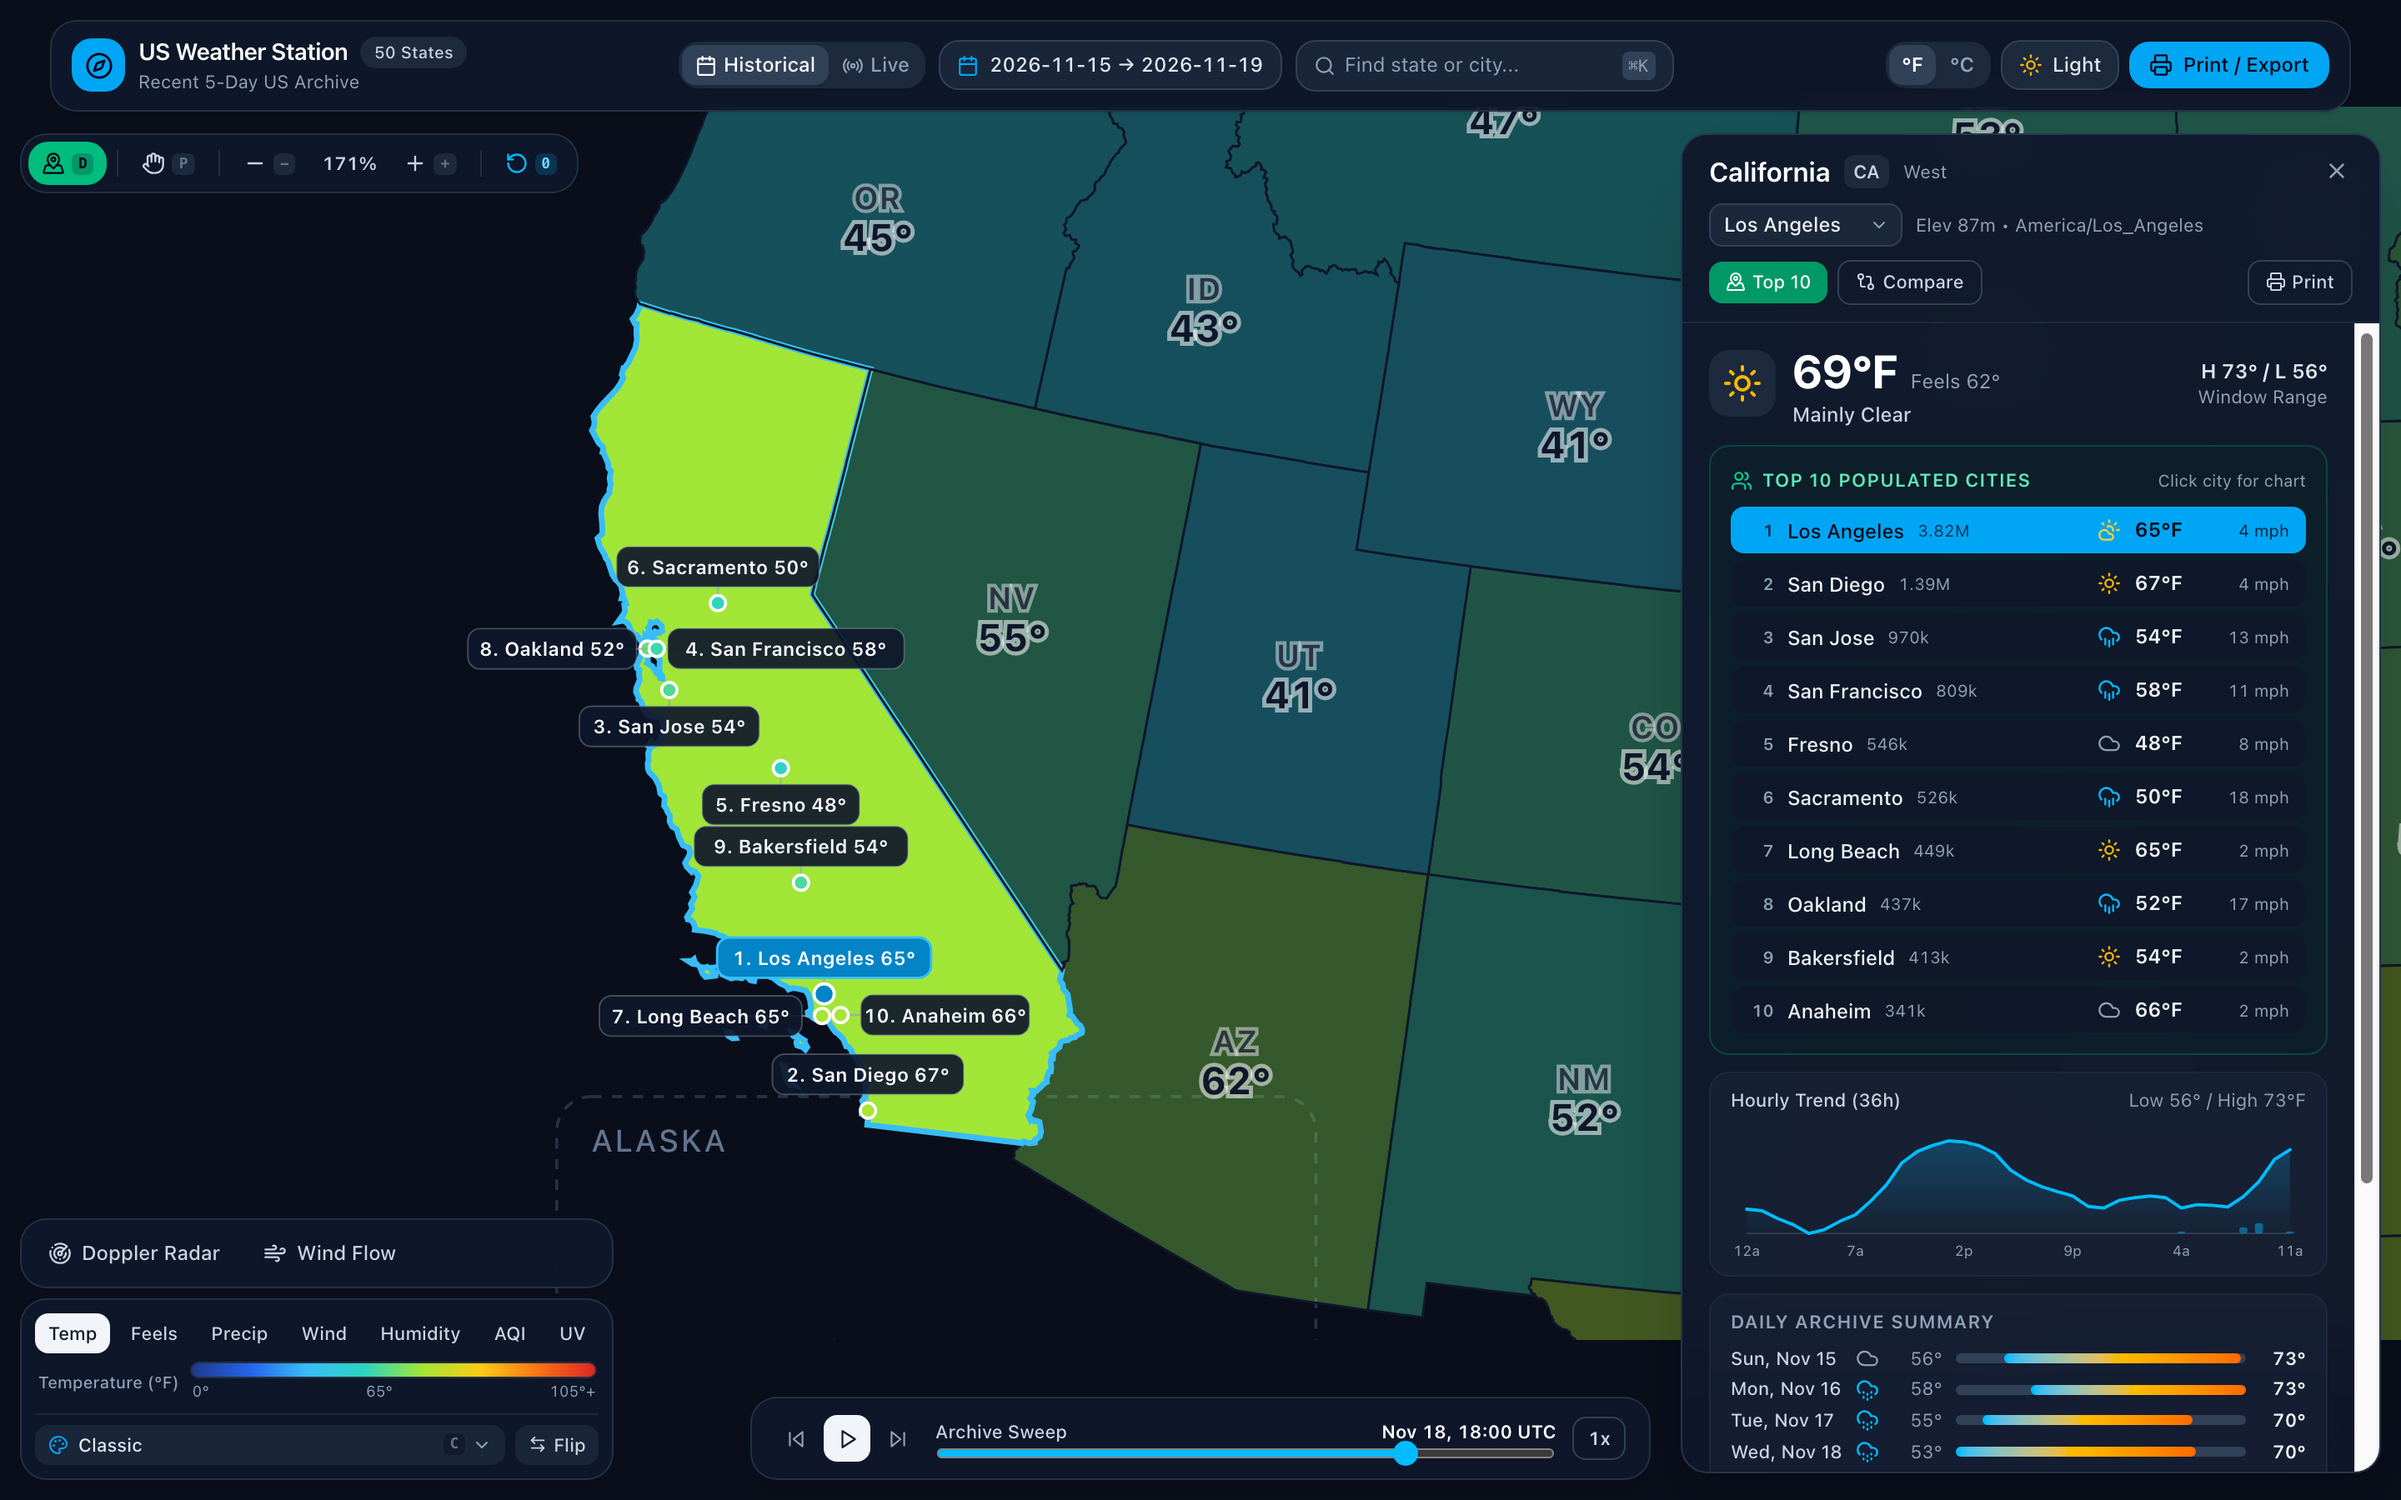
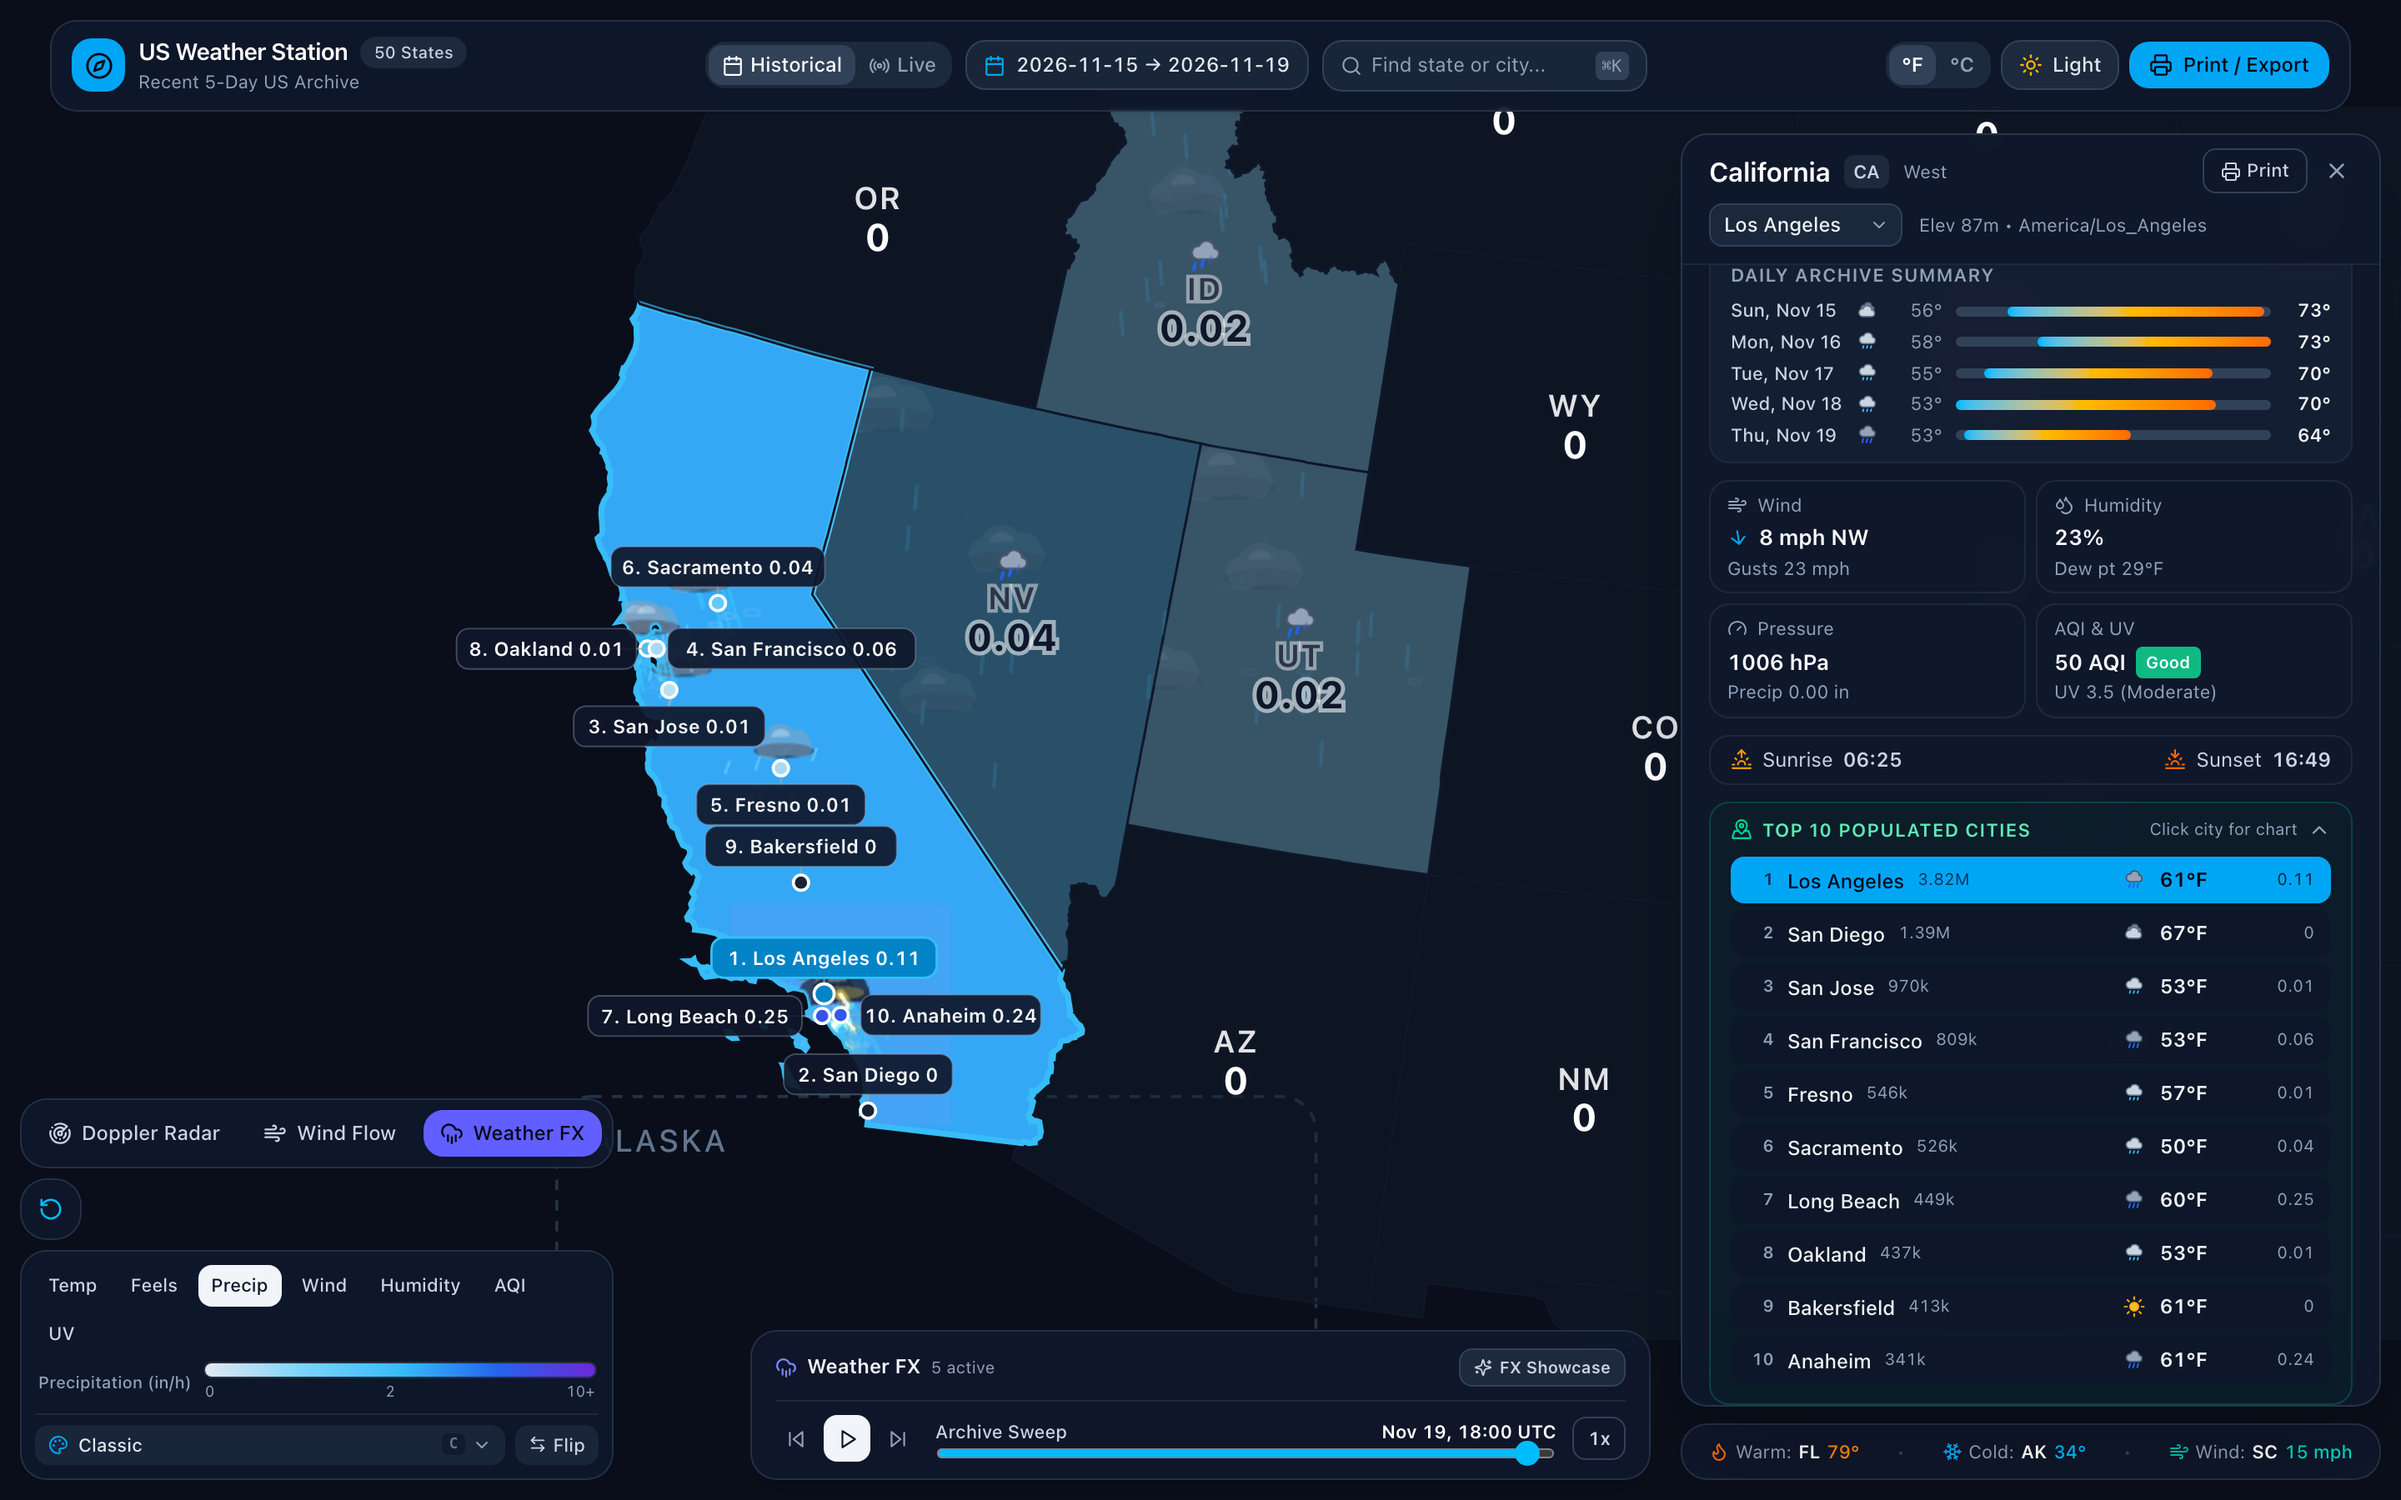
docs: update README screenshots with Weather FX enabled

diff --git a/README.md b/README.md
@@ -4,17 +4,17 @@
 
 An interactive 50-state US weather atlas with historical archives, live forecasts, animated Doppler radar, wind streamlines, and printable briefings — with zero API keys required.
 
-[![US Weather Station — 50-State Weather Map (Dark Mode)](docs/screenshot.png)](https://weather-station.juyoung-m-yoo.workers.dev/)
+[![US Weather Station — 50-State Weather Map with Live Weather FX (Dark Mode)](docs/screenshot.png)](https://weather-station.juyoung-m-yoo.workers.dev/)
 
 ## Features
 
 - **50-State Interactive Map** — Explore temperatures, feels-like, precipitation, wind, humidity, AQI, and UV across all 50 states in light or dark mode.
 - **Historical & Live Weather** — Inspect curated US weather events or custom dates back to 1940, or switch to **Live** for current forecasts and active NWS severe alerts.
 - **State Details & Top 10 Cities** — Click any state for hourly trends, daily forecasts, and a city selector dropdown, or enable **Detailed State Mode** (`D`) to zoom in on its 10 most populated cities.
-- **Radar, Wind & Weather FX** — Overlay animated Doppler radar loops, live wind flow lines, and procedural **Weather FX** (`A`), and scrub across time with the bottom playback dock.
+- **Radar, Wind & Weather FX** — Overlay animated Doppler radar loops, live wind flow lines, and procedural **Weather FX** (`A`, enabled by default in **Live** mode), and scrub across time with the bottom playback dock.
 - **Customizable Colormaps & Controls** — Switch or flip colormaps (`C` / `Shift+C`), pan (drag or hold `Space`), zoom (`+`/`-`/`0` or scroll), and export briefings to PDF, PNG, CSV, or JSON.
 
-[![Detailed State Mode — California Top 10 Populated Cities (Dark Mode)](docs/screenshot-detailed.png)](https://weather-station.juyoung-m-yoo.workers.dev/)
+[![Detailed State Mode — California Top 10 Populated Cities with Weather FX (Dark Mode)](docs/screenshot-detailed.png)](https://weather-station.juyoung-m-yoo.workers.dev/)
 
 ## Quickstart
 
